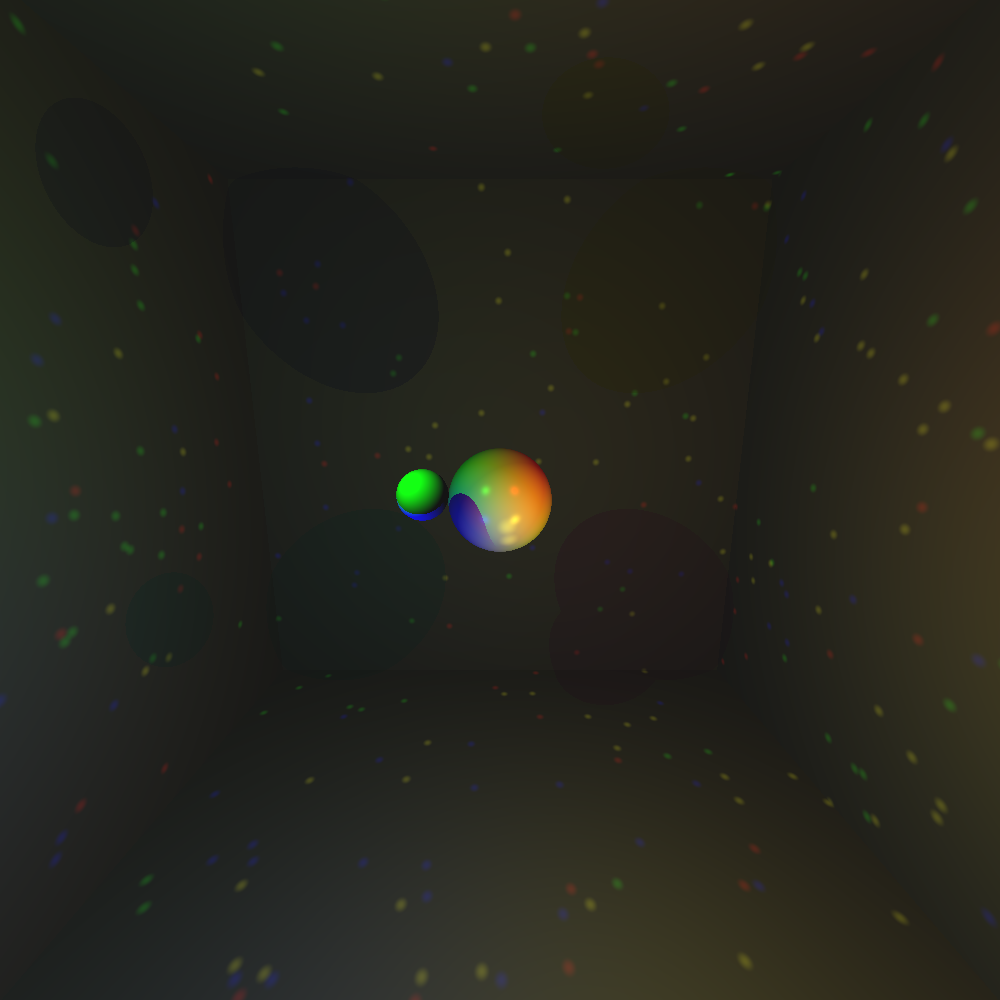
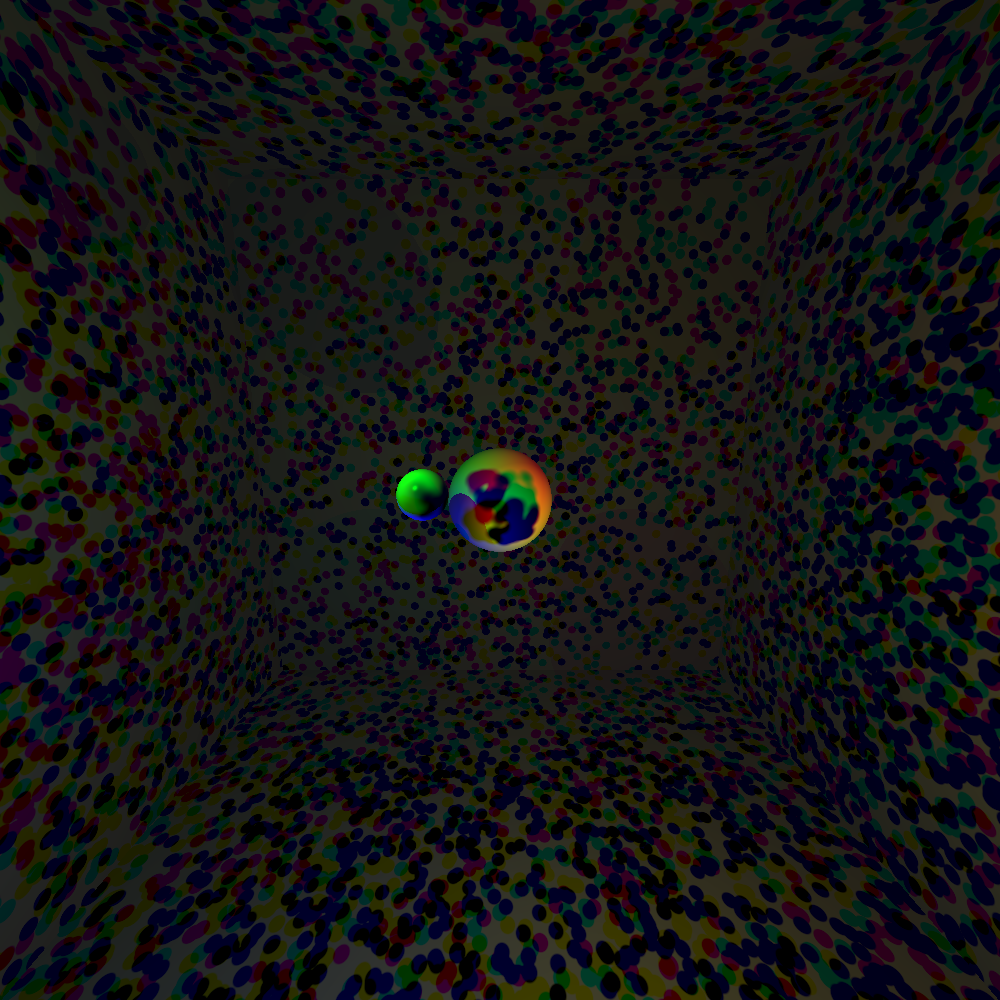
last effort before presentations

diff --git a/src/librt/PhotonShader.cpp b/src/librt/PhotonShader.cpp
@@ -26,11 +26,12 @@ RGBR_f PhotonShader::Shade (Intersection *pIntersection, STVector3 *lightDirecti
             float weight = std::max(0.0f, STVector3::Dot(surfNorm, photons->at(i)->GetDirection()));
             weight *= (1.0f - sqrt(photons->at(i)->GetDistSquared())) / 25.0f;
 
-            float weight2 = pow((1.0f - (distance / 0.07f)), 2.0) / 25.0f;
+            float weight2 = pow((1.0f - (distance / 0.07f)), 2.0);
 
-            photonColor += (photons->at(i)->GetColor() * weight2);
-            photonColor = RGBR_f::Min(pIntersection->surface->GetColor(), photonColor);
+            photonColor += (photons->at(i)->GetColor() * weight * weight2);
+           
         }
     }
+     photonColor = RGBR_f::Min(pIntersection->surface->GetColor(), photonColor);
     return photonColor;
 }

diff --git a/src/librt/RayTracer.cpp b/src/librt/RayTracer.cpp
@@ -46,7 +46,7 @@ void RayTracer::Run(Scene *pScene, STVector2* imageSize, std::string fName)
 {
 
 
-    this->emitPhotons(pScene, 200, 2);
+    this->emitPhotons(pScene, 10000, 4);
     //
 
     this->rayTrace(pScene, imageSize,fName);
